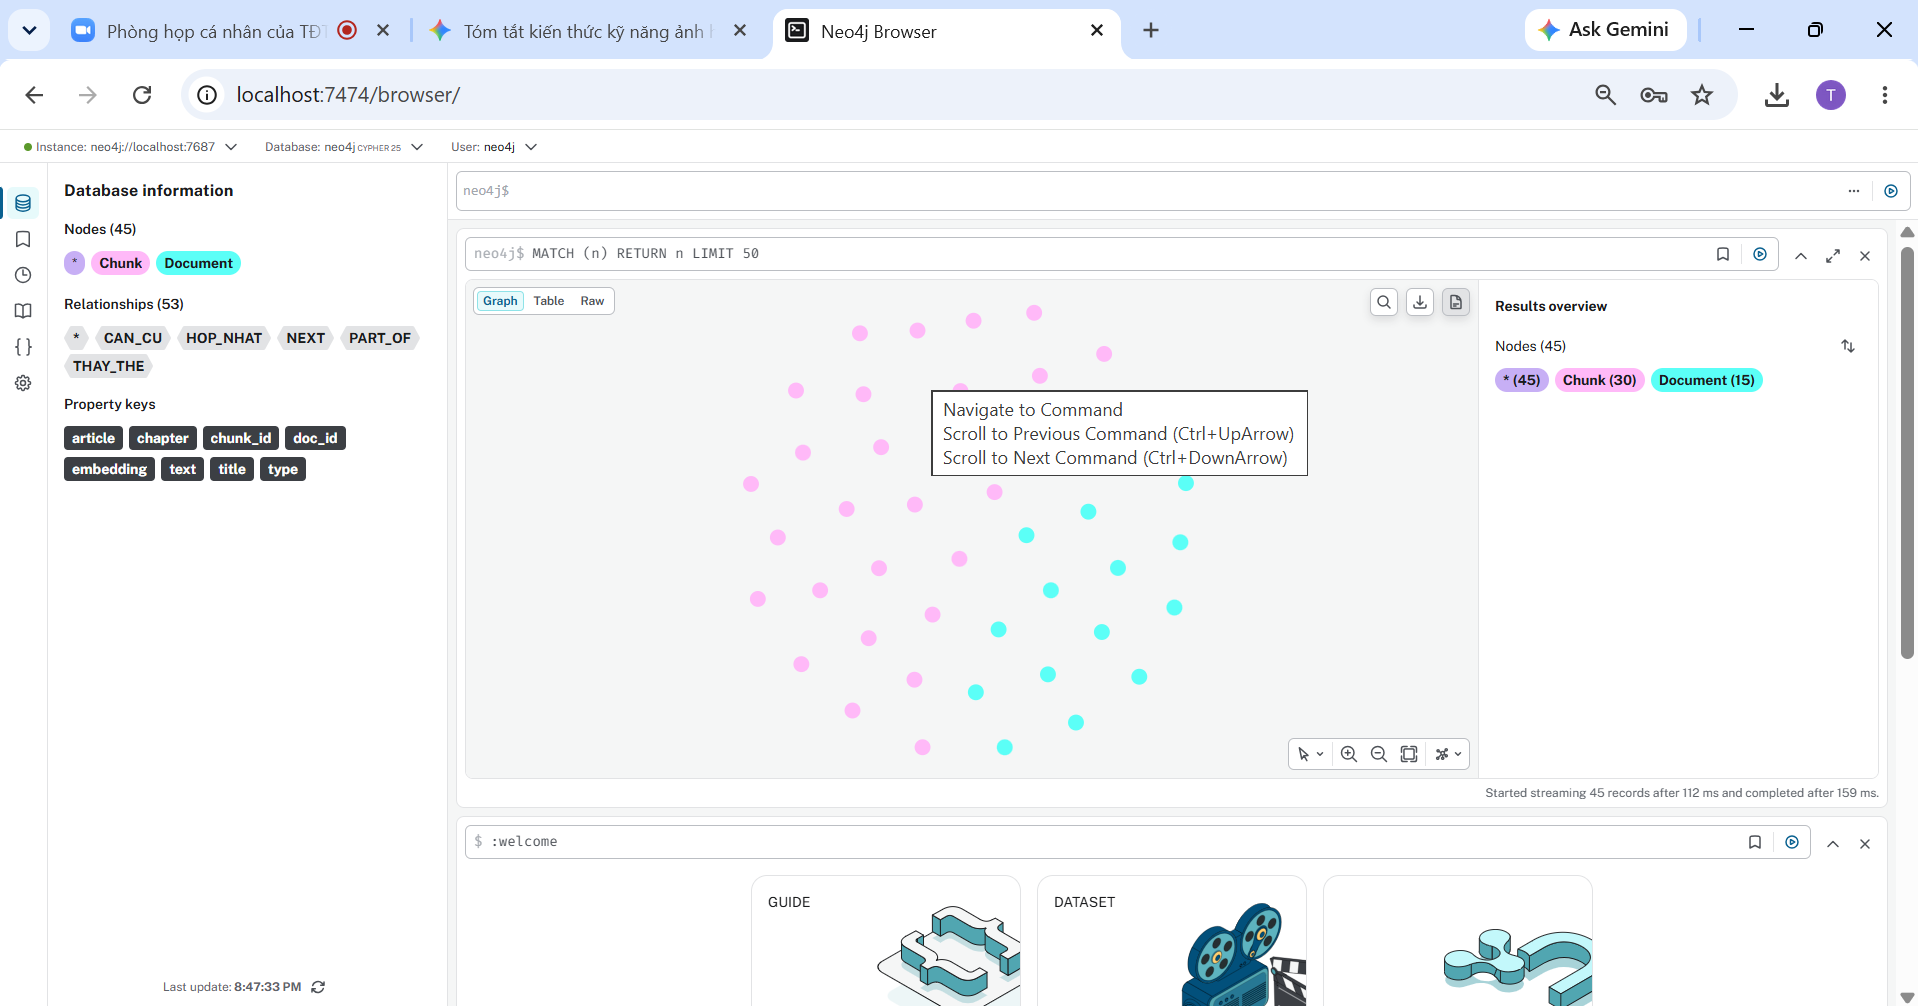
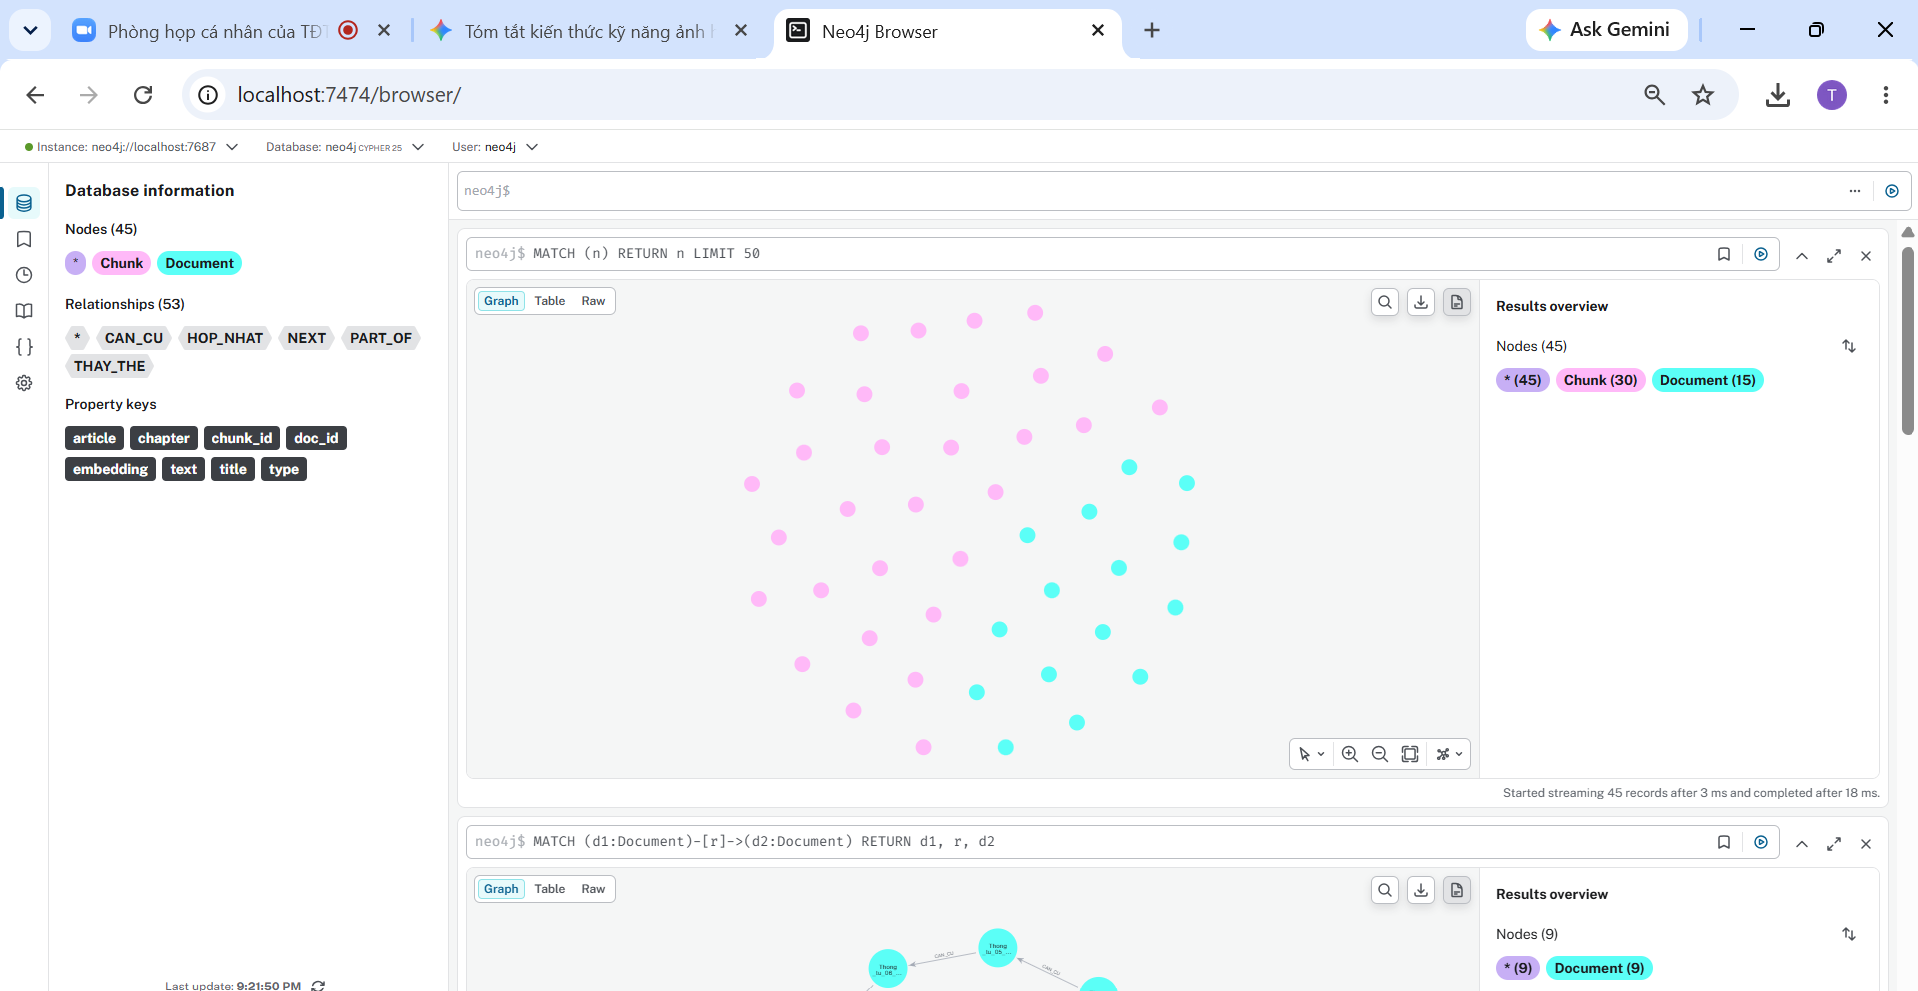
docs(buoi_10): Add updated test images (1.png, 2.png, 3.png) and README documentation

diff --git a/rag_advanced/buoi_10/README.md b/rag_advanced/buoi_10/README.md
@@ -1,0 +1,10 @@
+# Báo Cáo Thực Hành Buổi 10: Graph Ingestion & Dense Embedding
+
+## 1. Kết Quả Xác Minh Cơ Sở Dữ Liệu Neo4j (Step 5 Verification)
+![Báo cáo xác minh Neo4j](images/1.png)
+
+## 2. Kiểm Tra Mẫu Các Nút Chunk & Vector Embedding (384 Dimensions)
+![Kiểm tra Chunk và Vector](images/2.png)
+
+## 3. Cấu Trúc Thư Mục Dữ Liệu Lab
+![Cấu trúc thư mục](images/3.png)
